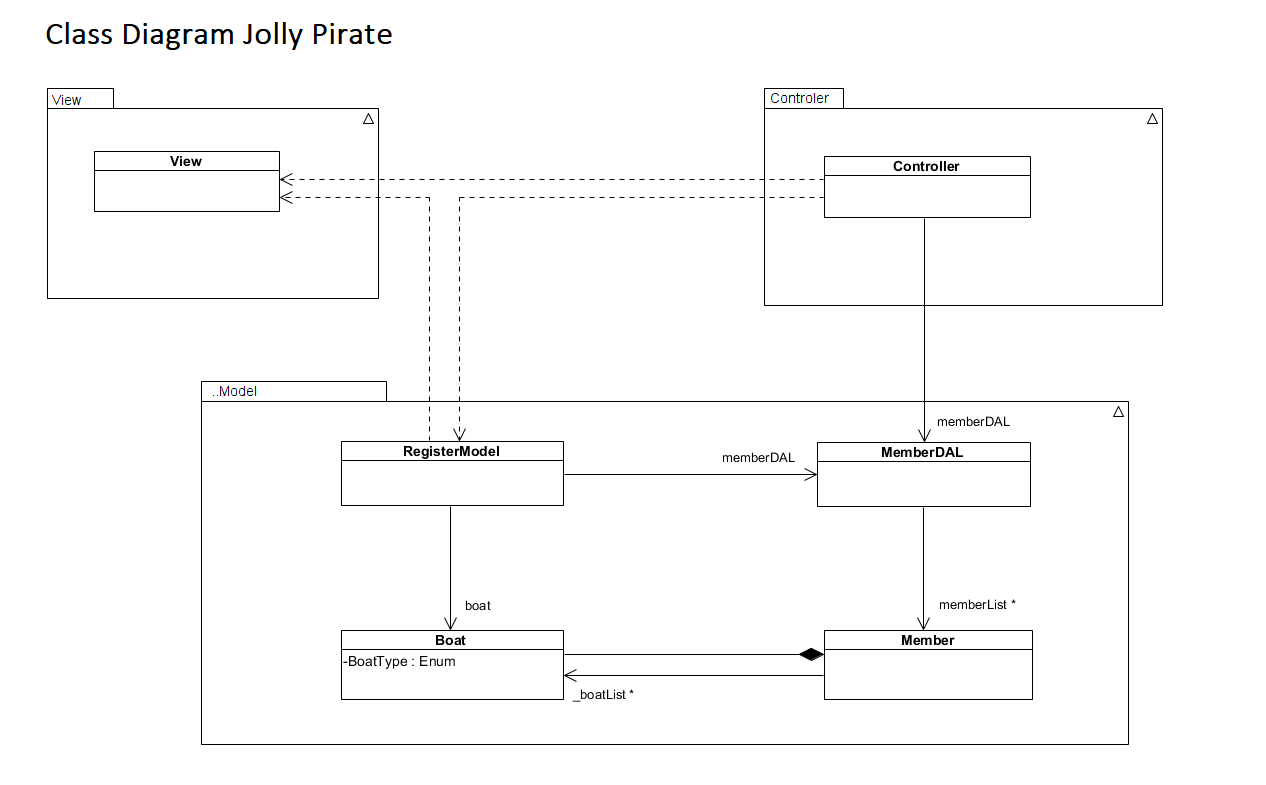
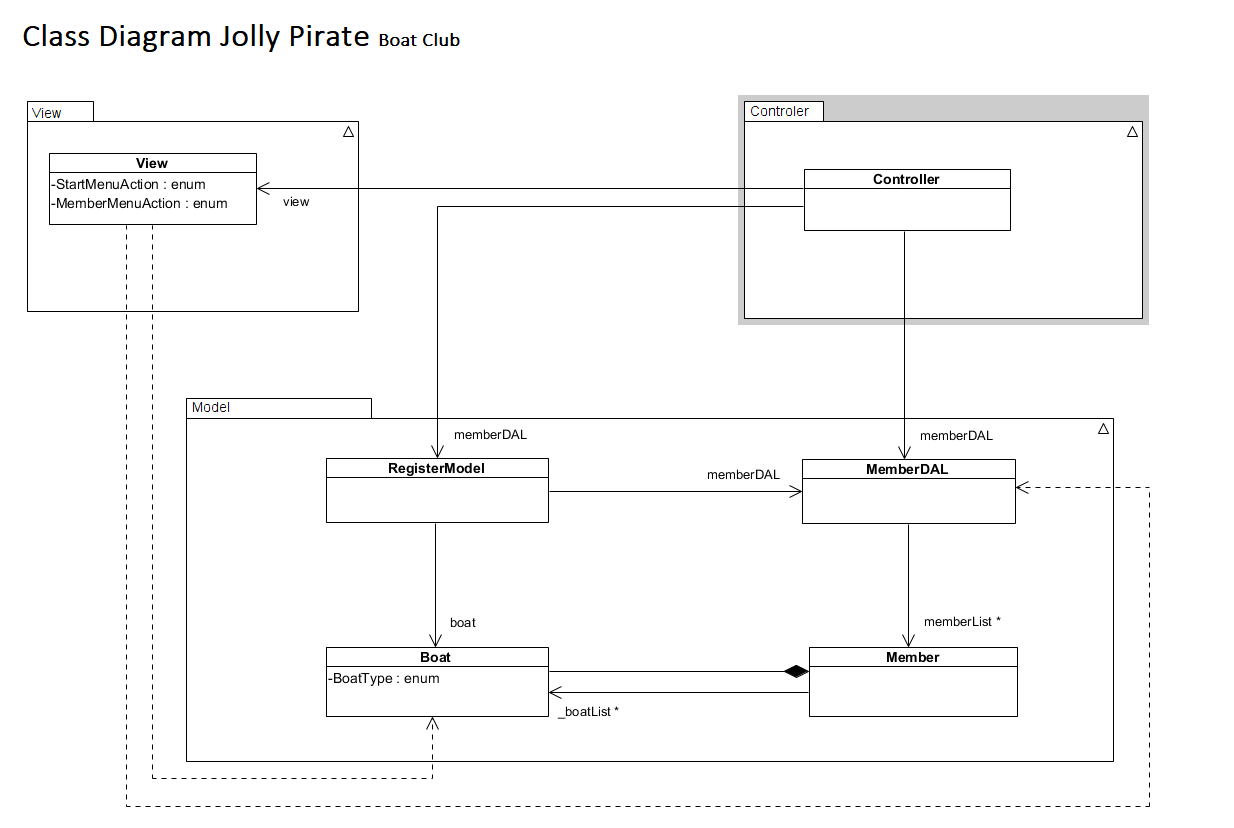
class diagram updated

diff --git a/view/View.cs b/view/View.cs
@@ -9,9 +9,6 @@ namespace jolly_pirate
     class View
     {
 
-        private int min;
-        private int max;
-
         public enum StartMenuAction 
         {
             Exit,
@@ -68,6 +65,7 @@ namespace jolly_pirate
             }
         }
 
+
         public void ShowStartMenu()
         {
             Console.WriteLine("╔════════════════════════════════════════════════╗\n" +
@@ -81,6 +79,7 @@ namespace jolly_pirate
             Console.Write("Enter your choice [0-4]:");
         }
 
+
         public string GetInputSSN()
         {
             Console.WriteLine("Enter Social security number (yymmddxxxx):"); 
@@ -89,6 +88,7 @@ namespace jolly_pirate
             return inputNumber;
         }
 
+
         public string GetInputName()
         {
             Console.WriteLine("Enter a full name, between 3-16 charecters:");
@@ -96,6 +96,8 @@ namespace jolly_pirate
 
             return inputName;
         }
+
+
         public void ShowSuccessMessage()
         {
             Console.BackgroundColor = ConsoleColor.Green;
@@ -110,97 +112,11 @@ namespace jolly_pirate
             Console.WriteLine("Enter your ID:");
         }
 
-        public void ShowErrorMessageMenu()
-        {
-            Console.BackgroundColor = ConsoleColor.Red;
-            Console.ForegroundColor = ConsoleColor.White;
-            Console.WriteLine("You need to enter a number between the given options!\nPress any key to continue, ESC exits ");
-            Console.ResetColor();
-        }
-
-///////////////////////////////////// Member Menu ////////////////////////////////////////////////////
-
-        public void ShowMemberMenu()
-        {
-            Console.ResetColor();
-            Console.WriteLine(" 0 - Exit\n 1 - Add Boat\n 2 - Change Boat \n 3 - Delete Boat\n 4 - Change Memberinfo\n 5 - Delete Member\n" +
-                              "==================================================\n" +
-                              "Enter your choice [0-5]:");
-        }
-
-        public void ShowBoatIsSaved(Boat boat)
-        {
-            Console.WriteLine("Saved:\n" +
-                                "type:  " + boat.Type + " | " +
-                                "length:  " + boat.Length + " | " +
-                                "id:  " + boat.Id);
-        }
-
-        public void ShowGetBoatTypes() 
-        {
-            Console.WriteLine("Choose a boat type:\n" +
-                              " 0 - Kayak/Canoe\n 1 - Motorsailer\n 2 - Sailboat\n 3 - Other");
-        }
-
-        public int AskForInt(Func<int,bool> IsInvalid, Func<string,string> GenerateErrorMessage)
-        {
-            int input;
-            string rawStringInput = Console.ReadLine();
-            while (!int.TryParse(rawStringInput, out input) || IsInvalid(input))
-            {
-                Console.WriteLine(GenerateErrorMessage(rawStringInput));
-                rawStringInput = Console.ReadLine();
-            }
-            return input;
-        }
-
-        public int AskForIntBetween(int min, int max) 
-        {
-            return AskForInt(
-                (input) => (input < min) || (input > max), 
-                (rawString) => $"{rawString} is not valid. Please enter an integer between {min} and {max}");
-        }
-
-        public int AskForInt()
-        {
-            return AskForInt((input) => false, (rawString) => "Not an integer. Try again.");
-        }
-
-        public void ShowGetBoatLength()
-        {
-            Console.WriteLine("Type in length of boat, between 1-20 m :");
-        }
-
-        public void ShowGetBoatByID()
-        {
-            Console.WriteLine("Choose the ID of boat you would like to change:");
-        }
-
-        public void ShowDeleteBoatByID()
-        {
-            Console.WriteLine("Enter the ID of the boat to delete it:");
-        }
-
-        public void ShowDeleteMemberByID()
-        {
-            Console.WriteLine("Choose your ID:");
-        }
-
-        public void ShowBoatList(List<Boat> boatList)
-        {
-            foreach (Boat boat in boatList)
-            {
-                Console.Write(" {0} - " + "Id: {1} " + "Type: {2} " + "Length: {3}\n",
-                boatList.IndexOf(boat), boat.Id, boat.Type, boat.Length);
-            }
-        }
-
-        public void ShowVerboseListOfMembers (List<Member> memberList) 
+           public void ShowVerboseListOfMembers (List<Member> memberList) 
         {
 
               List<string[]> rows = new List<string[]>(new [] {
-                new [] { "NAME", "SSN", "ID", "BOATS" },
-            });
+                new [] { "NAME", "SSN", "ID", "BOATS" }, });
 
             foreach (Member member in memberList) 
             {
@@ -244,6 +160,92 @@ namespace jolly_pirate
             for (int i = 1; i < rendered.Count(); i++)
             {
                 Console.WriteLine(rendered[i]);
+            }
+        }
+
+        public void ShowErrorMessageMenu()
+        {
+            Console.BackgroundColor = ConsoleColor.Red;
+            Console.ForegroundColor = ConsoleColor.White;
+            Console.WriteLine("You need to enter a number between the given options!\nPress any key to continue, ESC exits ");
+            Console.ResetColor();
+        }
+
+
+///////////////////////////////////////////////////// Member Menu /////////////////////////////////////////////////////////////////////////
+
+        public void ShowMemberMenu()
+        {
+            Console.ResetColor();
+            Console.WriteLine(" 0 - Exit\n 1 - Add Boat\n 2 - Change Boat \n 3 - Delete Boat\n 4 - Change Memberinfo\n 5 - Delete Member\n" +
+                              "==================================================\n" +
+                              "Enter your choice [0-5]:");
+        }
+
+        public void ShowBoatIsSaved(Boat boat)
+        {
+            Console.WriteLine("Saved:\n" +
+                                "type:  " + boat.Type + " | " +
+                                "length:  " + boat.Length + " | " +
+                                "id:  " + boat.Id);
+        }
+
+        public void ShowGetBoatTypes() 
+        {
+            Console.WriteLine("Choose a boat type:\n" +
+                              " 0 - Kayak/Canoe\n 1 - Motorsailer\n 2 - Sailboat\n 3 - Other");
+        }
+
+        public int AskForInt(Func<int,bool> IsInvalid, Func<string,string> GenerateErrorMessage)
+        {
+            int input;
+            string rawStringInput = Console.ReadLine();
+            
+            while (!int.TryParse(rawStringInput, out input) || IsInvalid(input))
+            {
+                Console.WriteLine(GenerateErrorMessage(rawStringInput));
+                rawStringInput = Console.ReadLine();
+            }
+            return input;
+        }
+
+        public int AskForIntBetween(int min, int max) 
+        {
+            return AskForInt( (input) => (input < min) || (input > max), 
+                (rawString) => $"{rawString} is not valid. Please enter an integer between {min} and {max}");
+        }
+
+        public int AskForInt()
+        {
+            return AskForInt((input) => false, (rawString) => "Not an integer. Try again.");
+        }
+
+        public void ShowGetBoatLength()
+        {
+            Console.WriteLine("Type in length of boat, between 1-20 m :");
+        }
+
+        public void ShowGetBoatByID()
+        {
+            Console.WriteLine("Choose the ID of boat you would like to change:");
+        }
+
+        public void ShowDeleteBoatByID()
+        {
+            Console.WriteLine("Enter the ID of the boat to delete it:");
+        }
+
+        public void ShowDeleteMemberByID()
+        {
+            Console.WriteLine("Choose your ID:");
+        }
+
+        public void ShowBoatList(List<Boat> boatList)
+        {
+            foreach (Boat boat in boatList)
+            {
+                Console.Write(" {0} - " + "Id: {1} " + "Type: {2} " + "Length: {3}\n",
+                boatList.IndexOf(boat), boat.Id, boat.Type, boat.Length);
             }
         }
     }
